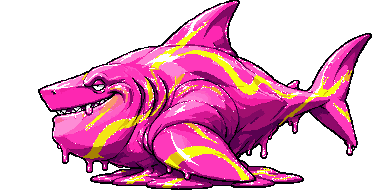
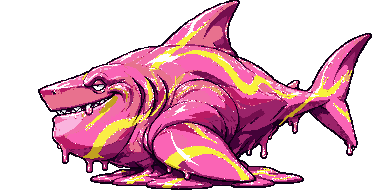
Paint Shark sprites (closed/open mouth), palette lock tool, mouth-aligned gulp and leap
Claude-Session: https://claude.ai/code/session_016eaBthCvKzWp812yLXmusx

diff --git a/tools/palette_lock.py b/tools/palette_lock.py
@@ -1,0 +1,70 @@
+"""ペンキ系キャラの色をペンキワニの通常ドット（assets/wani_idle.png）に合わせる。
+ピンク・黄色・暗い輪郭の3種類に分け、同じ種類の中で「明るさの順位（何%目に明るいか）」が同じ色に置き換える。
+生成された絵は全体に明るい・暗いのクセがあるので、絶対的な明るさではなく順位で合わせると、元の色の配分になる。
+それ以外の色（白目、灰色、紫など）はそのまま残す。生成した絵を組み込む前に必ず通す。
+使い方: python3 tools/palette_lock.py 入力.png [出力.png]   （出力を省略すると上書き）
+"""
+import sys
+from PIL import Image
+
+MASTER = "assets/wani_idle.png"
+
+
+def lum(c):
+    return 0.30 * c[0] + 0.59 * c[1] + 0.11 * c[2]
+
+
+def kind(c):
+    r, g, b = c
+    mx, mn = max(c), min(c)
+    sat = (mx - mn) / mx if mx else 0.0
+    if lum(c) < 40:
+        return "dark"
+    if r > 150 and g > 120 and b < 140 and g > b + 40:
+        return "yellow"
+    if r > g + 30 and r >= b and sat > 0.25:
+        return "pink"
+    return None   # ペンキ以外の色は触らない
+
+
+def _weighted(im):
+    """種類ごとに (明るさ, 色, 画素数) を明るい順に並べ、累積の割合を付ける"""
+    counts = {"pink": {}, "yellow": {}, "dark": {}}
+    for p in im.getdata():
+        if p[3]:
+            k = kind(p[:3])
+            if k:
+                counts[k][p[:3]] = counts[k].get(p[:3], 0) + 1
+    out = {}
+    for k, d in counts.items():
+        cols = sorted(d.items(), key=lambda kv: lum(kv[0]))
+        total = sum(n for _, n in cols) or 1
+        acc, lst = 0, []
+        for c, n in cols:
+            lst.append((c, (acc + n / 2) / total))
+            acc += n
+        out[k] = lst
+    return out
+
+
+def lock(src, dst=None):
+    master = _weighted(Image.open(MASTER).convert("RGBA"))
+    im = Image.open(src).convert("RGBA")
+    mine = _weighted(im)
+    table = {}
+    for k, lst in mine.items():
+        if not master[k]:
+            continue
+        for c, q in lst:
+            table[c] = min(master[k], key=lambda mc: abs(mc[1] - q))[0]
+    px = im.load()
+    for y in range(im.height):
+        for x in range(im.width):
+            r, g, b, a = px[x, y]
+            if a and (r, g, b) in table:
+                px[x, y] = table[(r, g, b)] + (a,)
+    im.save(dst or src)
+
+
+if __name__ == "__main__":
+    lock(sys.argv[1], sys.argv[2] if len(sys.argv) > 2 else None)
